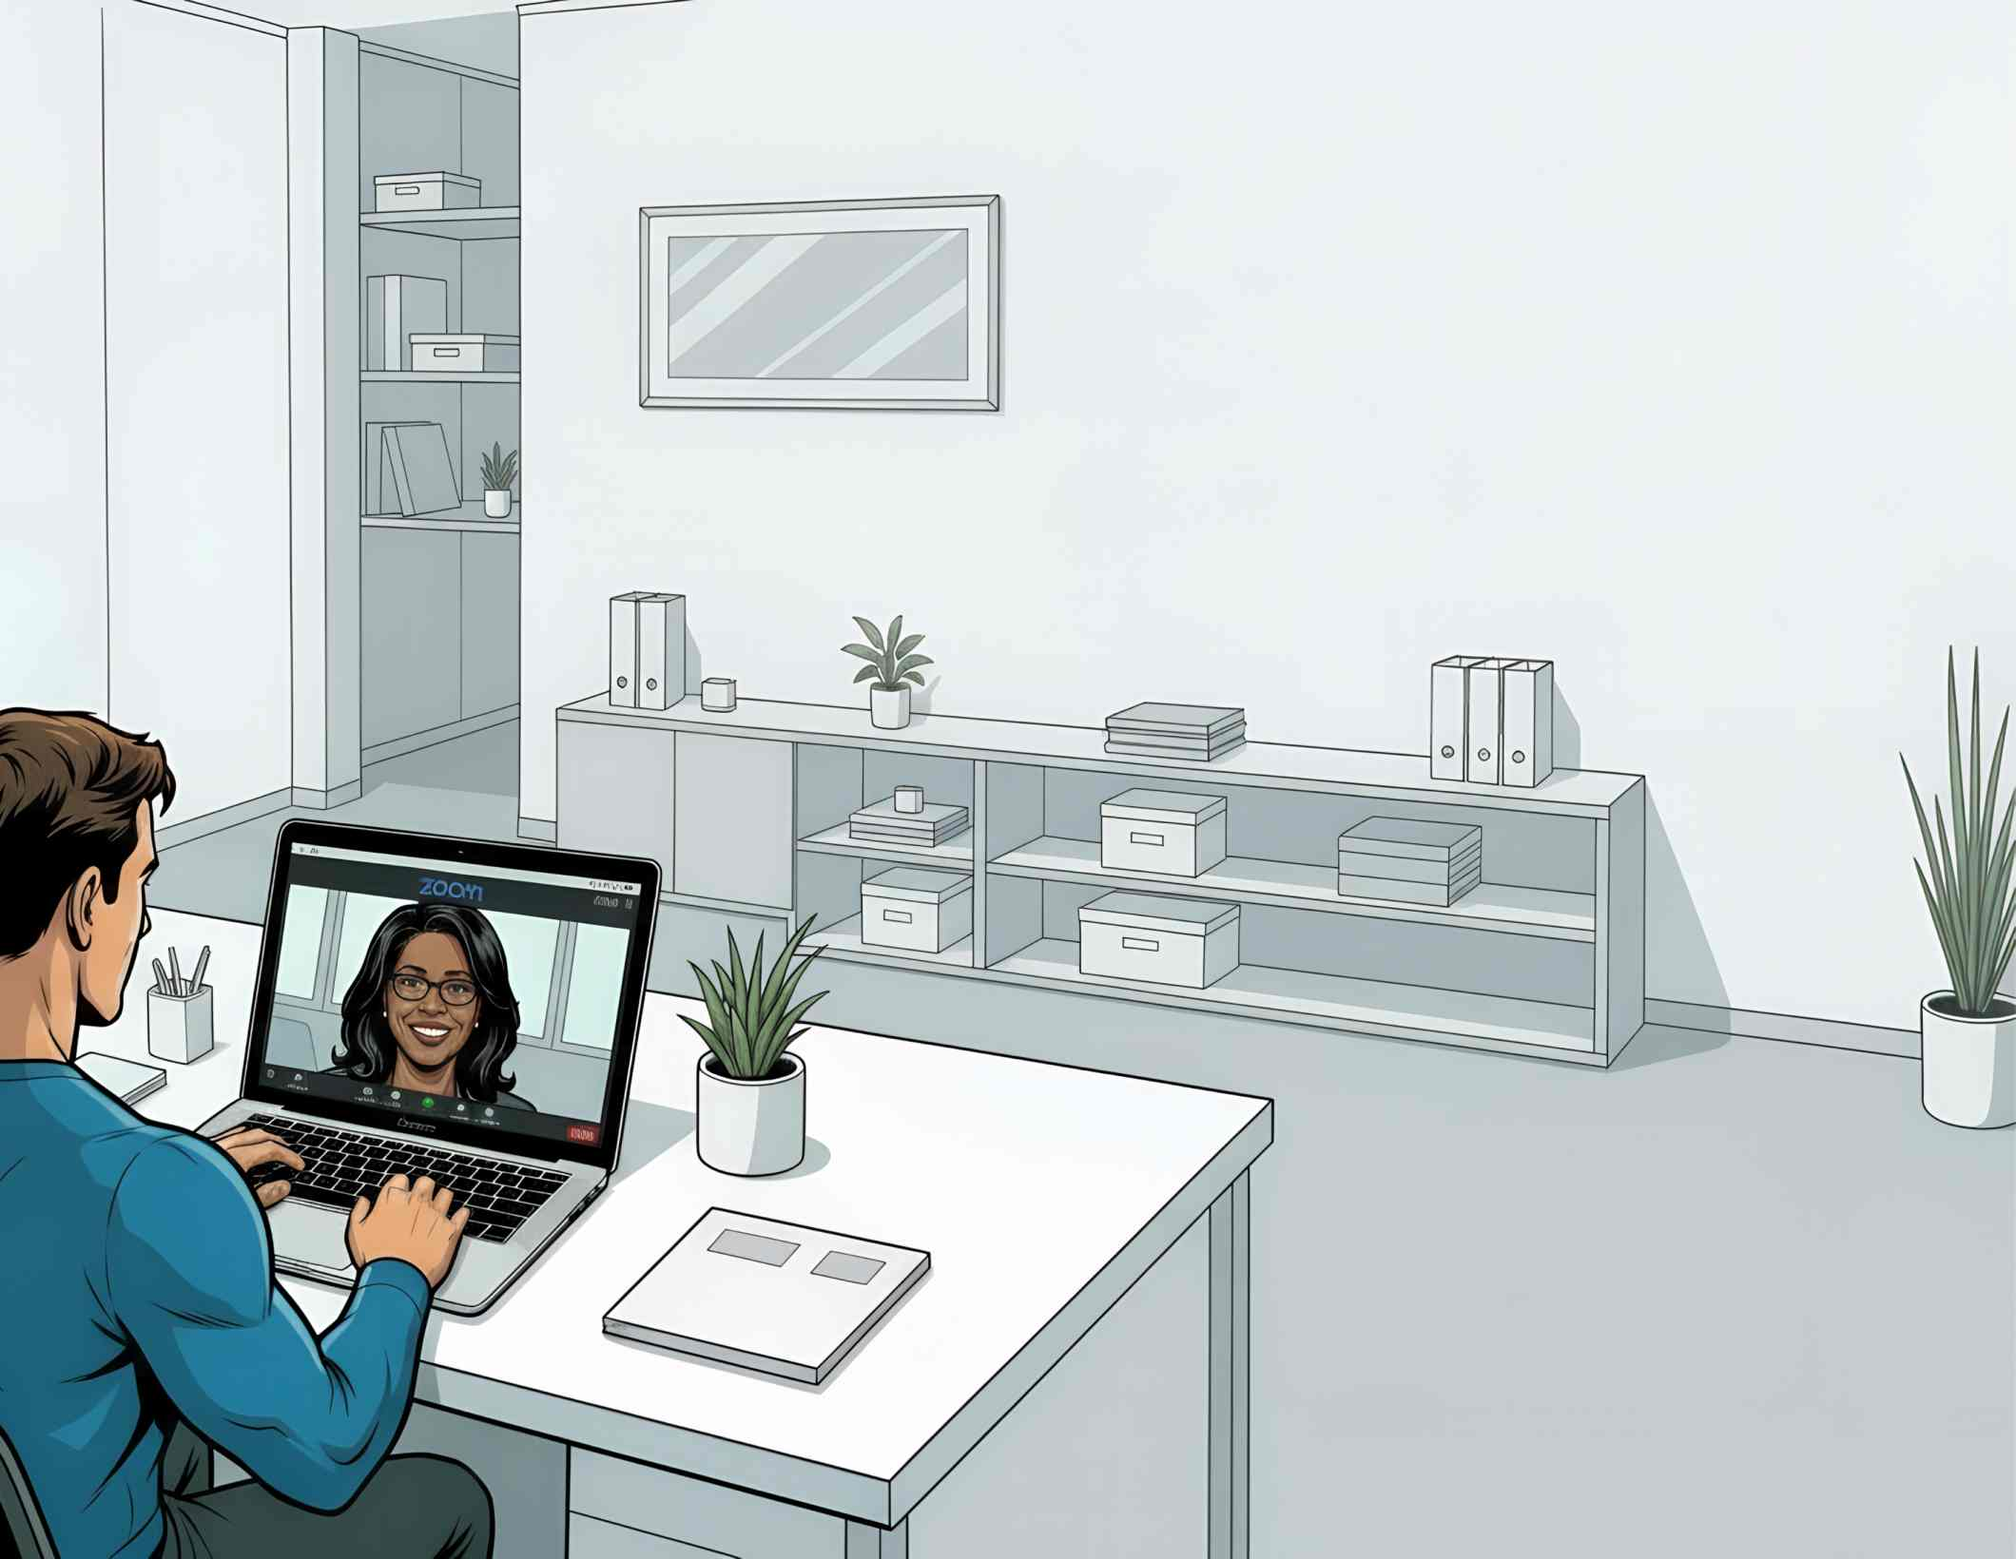
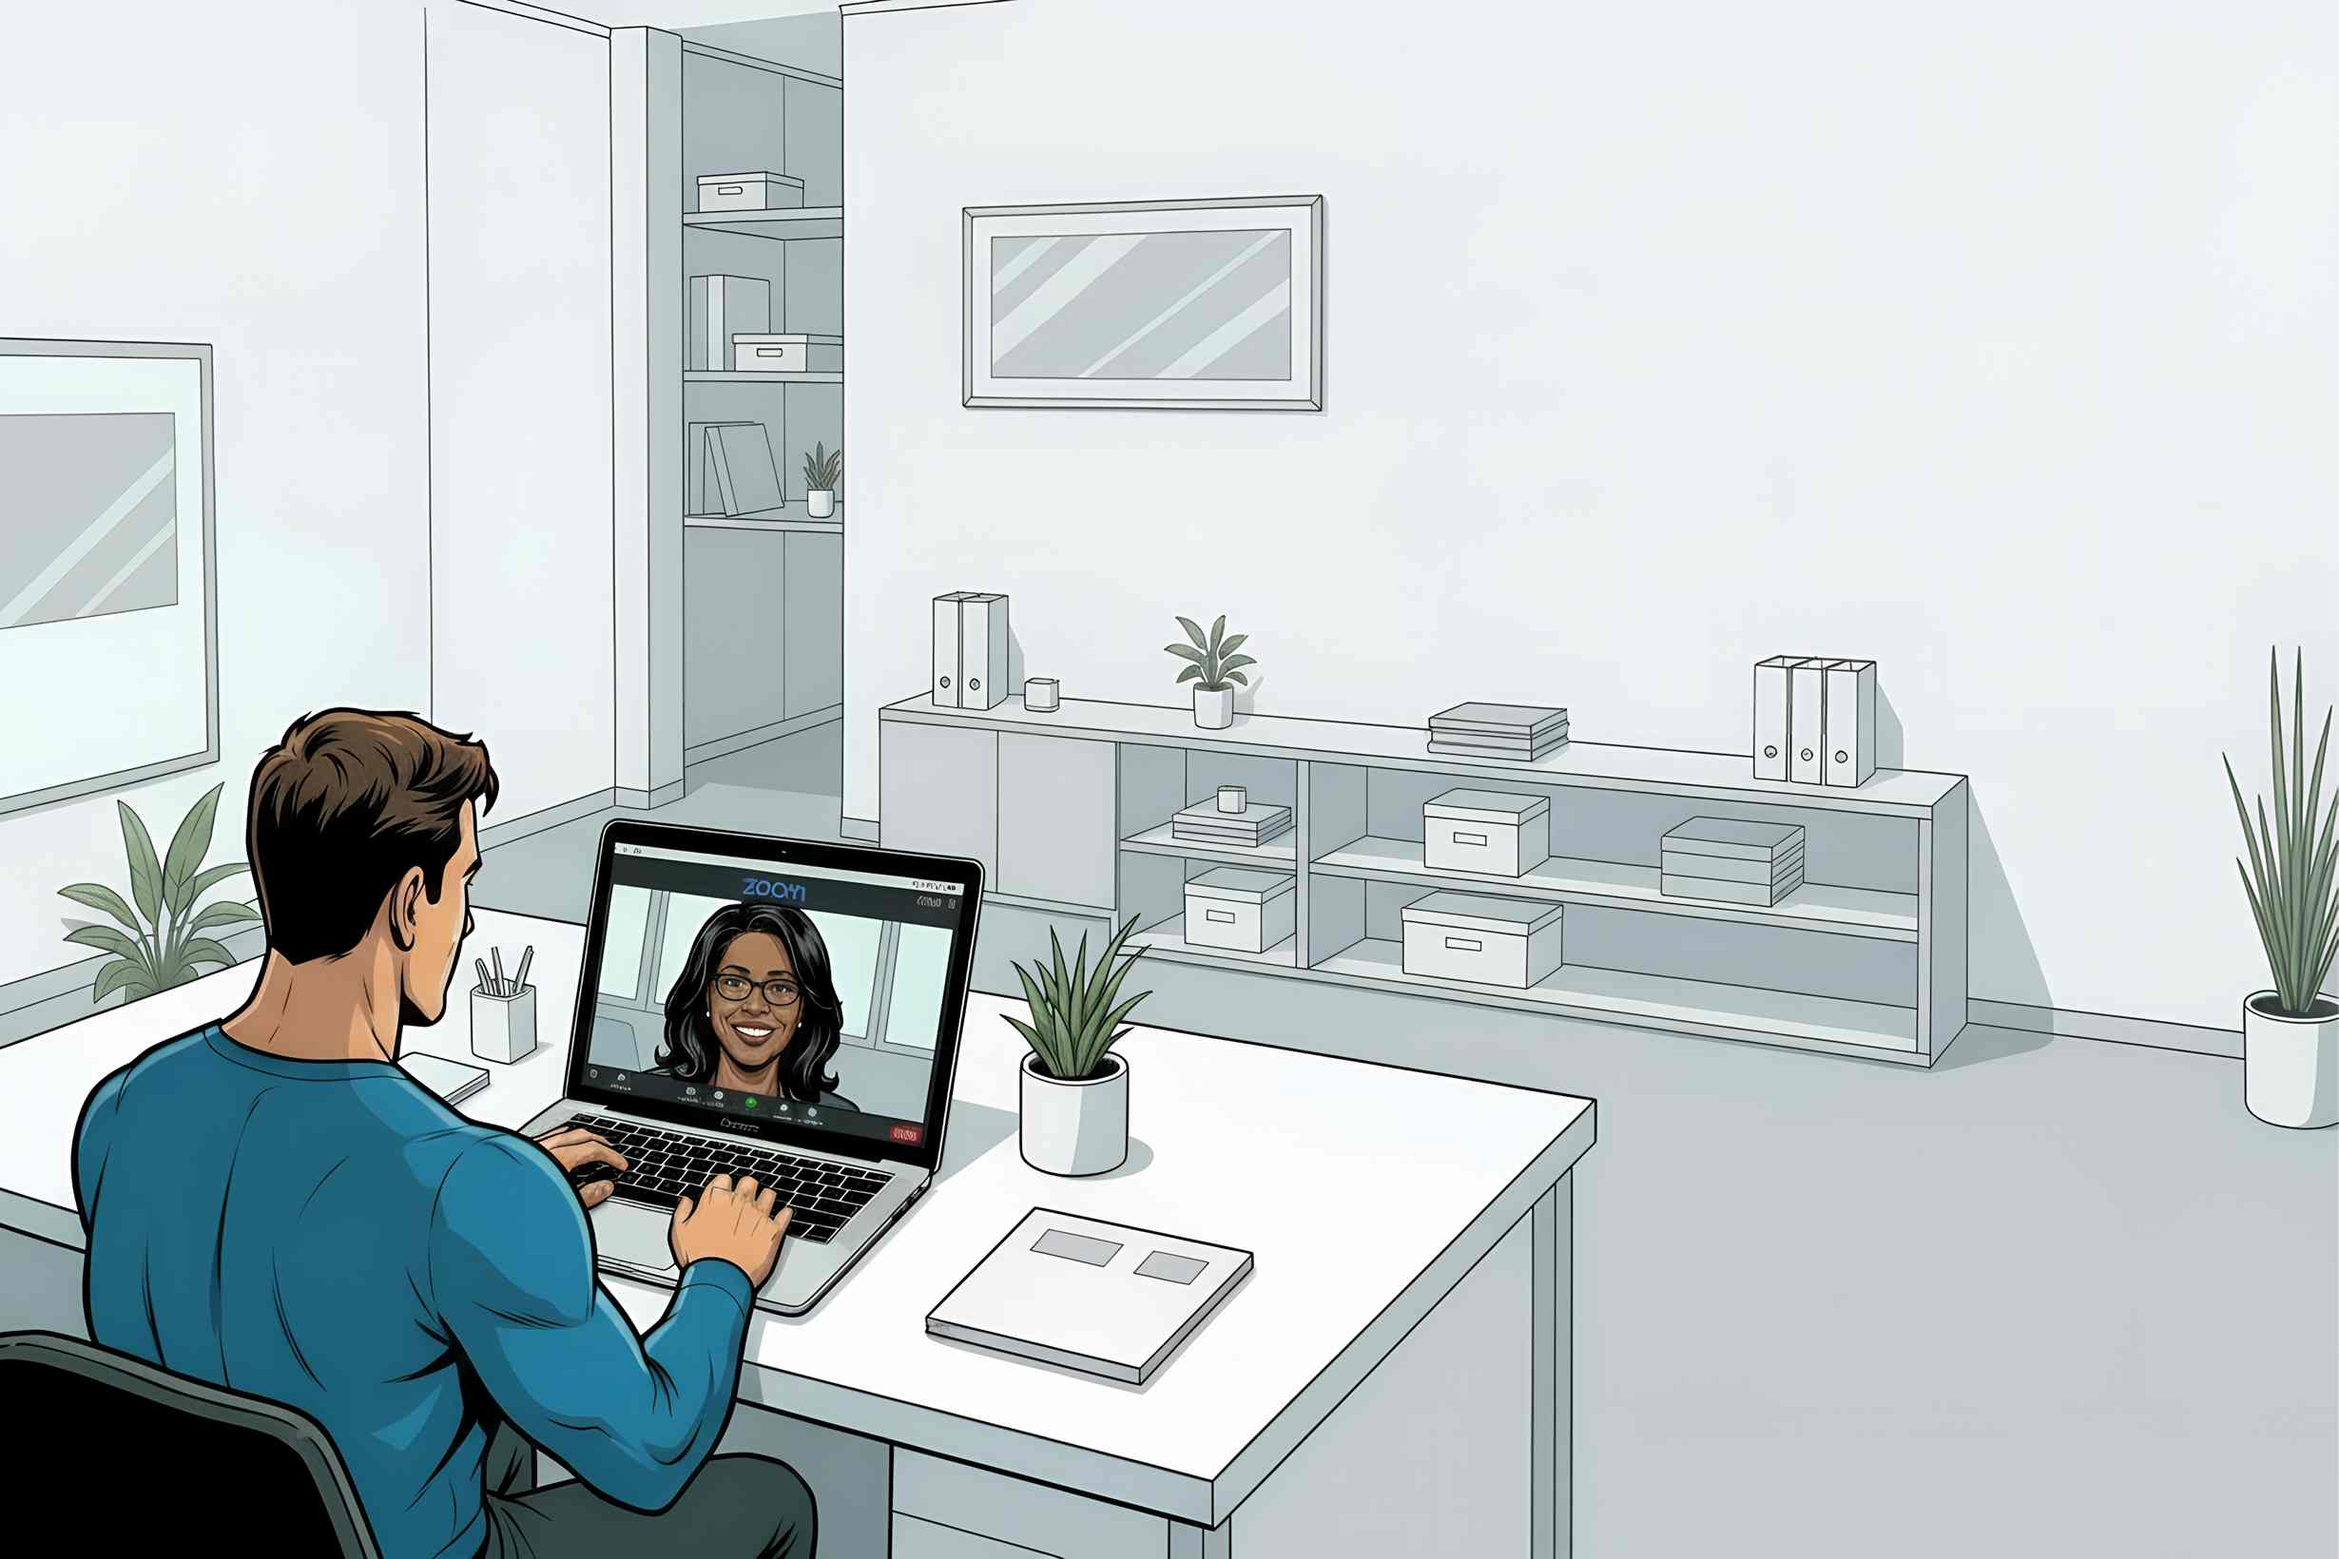
Widened chegg wire and persona panels.

diff --git a/src/components/CheggStaffAI.css b/src/components/CheggStaffAI.css
@@ -9,14 +9,14 @@
 }
 
 .chegg-staff-ai-wire {
-  width: 954px;
-  min-width: 954px;
-  max-width: 954px;
+  width: 1340px;
+  min-width: 1340px;
+  max-width: 1340px;
   height: 100%;
   background-color: var(--color-white-ish);
-  background-image: url('/img/chegg/chegg-wire-bg.svg');
+  background-image: url('/img/chegg/chegg-wire-bg-1340.svg');
   background-position: bottom left;
-  background-size: cover;
+  background-size: auto;
   background-repeat: no-repeat;
   padding: 0;
   border-right: 12px solid var(--color-near-black);
@@ -29,7 +29,7 @@
 
 .chegg-staff-ai-me-on-wire {
   position: absolute;
-  left: 100px;
+  left: 110px;
   bottom: 72px;
   width: auto;
   height: auto;
@@ -174,9 +174,9 @@
 }
 
 .chegg-staff-ai-personas {
-  width: 1060px;
-  min-width: 1060px;
-  max-width: 1060px;
+  width: 1160px;
+  min-width: 1160px;
+  max-width: 1160px;
   height: 100%;
   background-color: #ECF1F3;
   background-image: url('/img/chegg/chegg-persona-bg-32.jpg');
@@ -194,8 +194,8 @@
 
 .chegg-staff-ai-persona-carousel-container {
   position: absolute;
-  bottom: 32px;
-  right: 32px;
+  bottom: 40px;
+  right: 0;
   width: 472px;
   border-radius: 2px;
   overflow: hidden;
